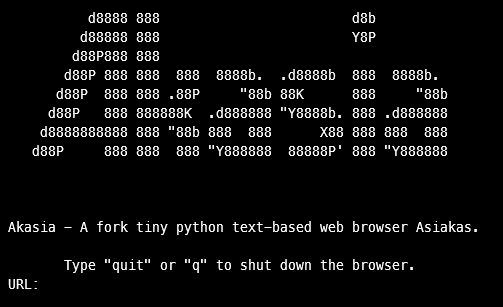
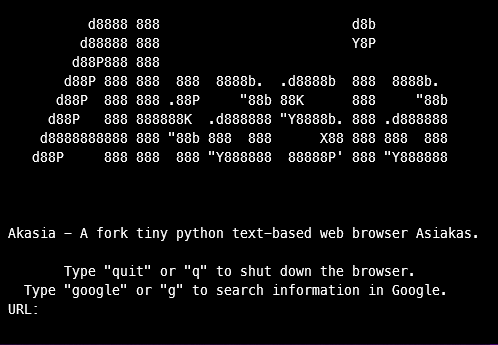
Release 1.1.0
Added the ability to ask questions in the Google search engine.

diff --git a/akasia.py b/akasia.py
@@ -28,7 +28,7 @@ def get_request(url: str) -> None:
         else:
             sys.exit()
 
-    cont = str(req_get.content, 'utf-8')
+    cont = str(req_get.content, 'latin-1')
     if len(cont) == 0:
         if req_get.status_code == 200:
             print(html2text.html2text(cont))
@@ -59,13 +59,18 @@ def main() -> None:
    d88P     888 888  888 "Y888888  88888P' 888 "Y888888\n\n\n''')
     print('Akasia - A fork tiny python text-based web browser Asiakas.\n'.center(58))
     print('Type "quit" or "q" to shut down the browser.'.center(58))
+    print('Type "google" or "g" to search information in Google.'.center(58))
 
     while True:
-        link = input("URL: ")
-        if link.lower() == "quit" or link.lower() == "q":
+        link = input('URL: ')
+        if link.lower() == 'quit' or link.lower() == 'q':
             break
-
-        get_request(link)
+        elif link.lower() == 'google' or link.lower() == 'g':
+           request = input('Request: ')
+           link = ('https://google.com/search?q=' + request.replace(' ', '+'))
+           get_request(link)
+        else:
+            get_request(link)
 
 
 main()

diff --git a/setup.py b/setup.py
@@ -5,7 +5,7 @@ setup.py is the Akasia setup file.
 from setuptools import setup
 
 setup(
-    version='1.0.0',
+    version='1.1.0',
     license="MIT",
     name='Akasia',
     author='RIERIUS (Asiakas fork author)',
